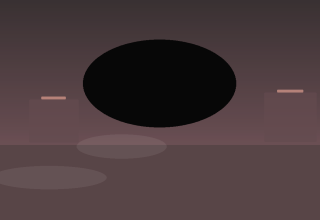
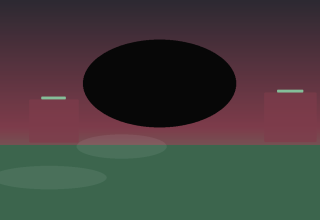
save "Add FX rules and update art candidates based on validation feedback

diff --git a/game/art/assembly_pipeline.py b/game/art/assembly_pipeline.py
@@ -1,0 +1,142 @@
+from __future__ import annotations
+
+from dataclasses import dataclass
+from pathlib import Path
+import random
+
+import pygame
+
+from game.art.environment_library import resolve_environment_preset
+from game.art.fx_layer import draw_fx
+from game.art.palette_system import resolve_civilization_palette
+from game.art.reference_sampler import ReferenceSampler, ReferenceChoice
+from game.art.scene_engine import (
+    semantic_from_prompt,
+    _resolve_explicit_refs,
+    _categories_for_prompt,
+    _keywords_from_semantic,
+    _prioritize_refs,
+    _palette_from_refs,
+    _strong_foreground_palette,
+    _draw_background,
+    _apply_contrast,
+)
+from game.art.silhouette_builder import draw_focus_object, draw_subject
+
+
+@dataclass(slots=True)
+class AssemblyMetrics:
+    occ_subject: float
+    occ_object: float
+    occ_fx: float
+    readability_ok: bool
+
+
+@dataclass(slots=True)
+class AssemblyResult:
+    card_id: str
+    path: str
+    scene_type: str
+    environment_preset: str
+    palette_id: str
+    references_used: list[str]
+    metrics: AssemblyMetrics
+
+
+def _occ_ratio(layer: pygame.Surface) -> float:
+    mask = pygame.mask.from_surface(layer)
+    return round(mask.count() / max(1, layer.get_width() * layer.get_height()), 4)
+
+
+def _draw_symbol(layer: pygame.Surface, semantic: dict, palette, rng: random.Random):
+    symbol = str(semantic.get('symbol', '') or '').lower()
+    if not symbol:
+        return
+    w, h = layer.get_size()
+    cx = w // 2
+    cy = int(h * 0.34)
+    accent = palette[3]
+    soft = (*accent, 88)
+    if 'chakana' in symbol:
+        size = int(min(w, h) * 0.10)
+        pygame.draw.line(layer, soft, (cx - size, cy), (cx + size, cy), 2)
+        pygame.draw.line(layer, soft, (cx, cy - size), (cx, cy + size), 2)
+        pygame.draw.rect(layer, soft, (cx - size // 2, cy - size // 2, size, size), 1)
+    elif 'seal' in symbol or 'sigil' in symbol:
+        r = int(min(w, h) * 0.08)
+        pygame.draw.circle(layer, soft, (cx, cy), r, 2)
+        pygame.draw.line(layer, soft, (cx - r, cy), (cx + r, cy), 2)
+    elif 'solar' in symbol:
+        r = int(min(w, h) * 0.07)
+        pygame.draw.circle(layer, soft, (cx, cy), r, 2)
+        for dx, dy in ((0, -r-8), (r+8, 0), (0, r+8), (-r-8, 0)):
+            pygame.draw.line(layer, soft, (cx, cy), (cx + dx, cy + dy), 2)
+
+
+def validate_readability(subject_layer: pygame.Surface, object_layer: pygame.Surface, fx_layer: pygame.Surface) -> AssemblyMetrics:
+    occ_subject = _occ_ratio(subject_layer)
+    occ_object = _occ_ratio(object_layer)
+    occ_fx = _occ_ratio(fx_layer)
+    readability_ok = occ_subject >= 0.20 and occ_object >= 0.035 and occ_fx <= 0.15
+    return AssemblyMetrics(occ_subject=occ_subject, occ_object=occ_object, occ_fx=occ_fx, readability_ok=readability_ok)
+
+
+def assemble_scene_art(card_id: str, prompt: str, seed: int, out_path: Path) -> AssemblyResult:
+    rng = random.Random(seed)
+    semantic = semantic_from_prompt(prompt)
+    sampler = ReferenceSampler()
+    explicit_refs = _resolve_explicit_refs(sampler, semantic)
+    sampled_refs = sampler.pick(_categories_for_prompt(prompt), _keywords_from_semantic(semantic), seed)
+    refs: list[ReferenceChoice] = []
+    seen: set[str] = set()
+    source_refs = explicit_refs if explicit_refs else _prioritize_refs(sampled_refs, semantic)
+    max_refs = 3 if explicit_refs else 6
+    for ref in source_refs:
+        key = str(ref.path).lower()
+        if key in seen:
+            continue
+        seen.add(key)
+        refs.append(ref)
+        if len(refs) >= max_refs:
+            break
+    if not explicit_refs:
+        refs = _prioritize_refs(refs, semantic)
+
+    civ = resolve_civilization_palette(semantic)
+    palette = _palette_from_refs(refs, semantic)
+    fg_palette = _strong_foreground_palette(palette, semantic.get('subject_kind', ''), semantic.get('object_kind', ''))
+    env_preset = resolve_environment_preset(semantic.get('scene_type', ''), semantic.get('environment_kind', ''), semantic.get('environment', ''))
+
+    work = pygame.Surface((768, 768), pygame.SRCALPHA, 32)
+    _draw_background(work, semantic, palette, rng)
+
+    subject_layer = pygame.Surface(work.get_size(), pygame.SRCALPHA)
+    object_layer = pygame.Surface(work.get_size(), pygame.SRCALPHA)
+    symbol_layer = pygame.Surface(work.get_size(), pygame.SRCALPHA)
+    fx_layer = pygame.Surface(work.get_size(), pygame.SRCALPHA)
+    shadow_layer = pygame.Surface(work.get_size(), pygame.SRCALPHA)
+
+    pygame.draw.ellipse(shadow_layer, (0, 0, 0, 132), (int(work.get_width() * 0.12), int(work.get_height() * 0.63), int(work.get_width() * 0.76), int(work.get_height() * 0.18)))
+    draw_subject(subject_layer, semantic, refs, fg_palette, rng)
+    draw_focus_object(object_layer, semantic, fg_palette, rng)
+    _draw_symbol(symbol_layer, semantic, fg_palette, rng)
+    draw_fx(fx_layer, semantic, palette, rng)
+
+    for layer in (shadow_layer, subject_layer, object_layer, symbol_layer, fx_layer):
+        work.blit(layer, (0, 0))
+
+    _apply_contrast(work)
+    final = pygame.transform.smoothscale(work, (320, 220)).convert_alpha()
+    out_path.parent.mkdir(parents=True, exist_ok=True)
+    pygame.image.save(final, str(out_path))
+
+    metrics = validate_readability(subject_layer, object_layer, fx_layer)
+    return AssemblyResult(
+        card_id=card_id,
+        path=str(out_path),
+        scene_type=str(semantic.get('scene_type', '') or ''),
+        environment_preset=env_preset.preset_id,
+        palette_id=civ.palette_id,
+        references_used=[r.path.name for r in refs[:4]],
+        metrics=metrics,
+    )

diff --git a/game/art/scene_engine.py b/game/art/scene_engine.py
@@ -7,6 +7,7 @@ import pygame
 
 from game.art.environment_library import resolve_environment_preset
 from game.art.fx_layer import draw_fx
+from game.art.palette_system import resolve_civilization_palette
 from game.art.reference_sampler import ReferenceSampler, ReferenceChoice
 from game.art.silhouette_builder import draw_focus_object, draw_subject
 
@@ -83,17 +84,31 @@ def _resolve_explicit_refs(sampler: ReferenceSampler, semantic: dict) -> list[Re
                     break
     return wanted
 
-def _palette_from_refs(choices):
-    if not choices:
-        return ((20, 16, 28), (72, 68, 96), (148, 138, 166), (232, 204, 132))
-    cols = [c.avg_color for c in choices]
-    r = sum(c[0] for c in cols) // len(cols)
-    g = sum(c[1] for c in cols) // len(cols)
-    b = sum(c[2] for c in cols) // len(cols)
-    top = (max(8, r // 5), max(8, g // 5), max(8, b // 5))
-    mid = (max(18, int(r * 0.55)), max(18, int(g * 0.55)), max(18, int(b * 0.55)))
-    low = (min(255, int(r * 0.92)), min(255, int(g * 0.92)), min(255, int(b * 0.92)))
-    accent = (min(255, r + 70), min(255, g + 50), min(255, b + 26))
+def _blend_color(a, b, weight: float):
+    return (
+        int(a[0] * (1.0 - weight) + b[0] * weight),
+        int(a[1] * (1.0 - weight) + b[1] * weight),
+        int(a[2] * (1.0 - weight) + b[2] * weight),
+    )
+
+
+def _palette_from_refs(choices, semantic):
+    civ = resolve_civilization_palette(semantic)
+    top = civ.shadow
+    mid = civ.primary
+    low = civ.secondary
+    accent = civ.glow
+    if choices:
+        cols = [c.avg_color for c in choices]
+        r = sum(c[0] for c in cols) // len(cols)
+        g = sum(c[1] for c in cols) // len(cols)
+        b = sum(c[2] for c in cols) // len(cols)
+        ref_mid = (max(18, int(r * 0.55)), max(18, int(g * 0.55)), max(18, int(b * 0.55)))
+        ref_low = (min(255, int(r * 0.92)), min(255, int(g * 0.92)), min(255, int(b * 0.92)))
+        ref_acc = (min(255, r + 60), min(255, g + 60), min(255, b + 50))
+        mid = _blend_color(mid, ref_mid, 0.28)
+        low = _blend_color(low, ref_low, 0.22)
+        accent = _blend_color(accent, ref_acc, 0.18)
     return (top, mid, low, accent)
 
 
@@ -316,52 +331,22 @@ def _prioritize_refs(refs, semantic: dict):
 
 
 def generate_scene_art(card_id: str, prompt: str, seed: int, out_path: Path) -> dict:
-    rng = random.Random(seed)
+    from game.art.assembly_pipeline import assemble_scene_art
     semantic = semantic_from_prompt(prompt)
-    sampler = ReferenceSampler()
-    explicit_refs = _resolve_explicit_refs(sampler, semantic)
-    sampled_refs = sampler.pick(_categories_for_prompt(prompt), _keywords_from_semantic(semantic), seed)
-    refs = []
-    seen = set()
-    source_refs = explicit_refs if explicit_refs else _prioritize_refs(sampled_refs, semantic)
-    max_refs = 3 if explicit_refs else 6
-    for ref in source_refs + ([] if explicit_refs else []):
-        key = str(ref.path).lower()
-        if key in seen:
-            continue
-        seen.add(key)
-        refs.append(ref)
-        if len(refs) >= max_refs:
-            break
-    if not explicit_refs:
-        refs = _prioritize_refs(refs, semantic)
-    palette = _palette_from_refs(refs)
-    work = pygame.Surface((768, 768), pygame.SRCALPHA, 32)
-    _draw_background(work, semantic, palette, rng)
-    shadow = pygame.Surface(work.get_size(), pygame.SRCALPHA)
-    pygame.draw.ellipse(shadow, (0, 0, 0, 132), (int(work.get_width() * 0.10), int(work.get_height() * 0.62), int(work.get_width() * 0.80), int(work.get_height() * 0.20)))
-    work.blit(shadow, (0, 0))
-    fg_palette = _strong_foreground_palette(palette, semantic.get('subject_kind', ''), semantic.get('object_kind', ''))
-    draw_subject(work, semantic, refs, fg_palette, rng)
-    draw_focus_object(work, semantic, fg_palette, rng)
-    draw_fx(work, semantic, palette, rng)
-    _apply_contrast(work)
-    final = pygame.transform.smoothscale(work, (320, 220)).convert_alpha()
-    sharpen = pygame.Surface((320, 220), pygame.SRCALPHA)
-    for _ in range(18):
-        x = rng.randint(0, 319)
-        y = rng.randint(0, 219)
-        pygame.draw.circle(sharpen, (255, 255, 255, 4), (x, y), 1)
-    final.blit(sharpen, (0, 0), special_flags=pygame.BLEND_RGBA_ADD)
-    out_path.parent.mkdir(parents=True, exist_ok=True)
-    pygame.image.save(final, str(out_path))
+    result = assemble_scene_art(card_id, prompt, seed, out_path)
     return {
         'card_id': card_id,
-        'path': str(out_path),
-        'generator_used': 'scene_engine_v2',
-        'references_used': [r.path.name for r in refs[:4]],
-        'palette_seeded': [r.avg_color for r in refs[:3]],
+        'path': result.path,
+        'generator_used': 'assembly_pipeline_v1',
+        'references_used': list(result.references_used),
+        'palette_seeded': [result.palette_id],
         'semantic_subject': str(semantic.get('subject', '') or ''),
         'semantic_object': str(semantic.get('object', '') or ''),
         'semantic_environment': str(semantic.get('environment', '') or ''),
+        'scene_type': result.scene_type,
+        'environment_preset': result.environment_preset,
+        'readability_ok': result.metrics.readability_ok,
+        'occ_subject': result.metrics.occ_subject,
+        'occ_object': result.metrics.occ_object,
+        'occ_fx': result.metrics.occ_fx,
     }

diff --git a/game/art/palette_system.py b/game/art/palette_system.py
@@ -1,0 +1,69 @@
+from __future__ import annotations
+
+from dataclasses import asdict, dataclass
+
+
+@dataclass(slots=True)
+class CivilizationPalette:
+    palette_id: str
+    primary: tuple[int, int, int]
+    secondary: tuple[int, int, int]
+    accent: tuple[int, int, int]
+    shadow: tuple[int, int, int]
+    glow: tuple[int, int, int]
+
+    def to_dict(self) -> dict[str, object]:
+        return asdict(self)
+
+
+CIVILIZATION_PALETTES: dict[str, CivilizationPalette] = {
+    "chakana": CivilizationPalette(
+        palette_id="chakana",
+        primary=(112, 78, 156),
+        secondary=(54, 116, 124),
+        accent=(226, 196, 110),
+        shadow=(24, 18, 34),
+        glow=(244, 224, 152),
+    ),
+    "hyperborea": CivilizationPalette(
+        palette_id="hyperborea",
+        primary=(188, 218, 246),
+        secondary=(114, 146, 188),
+        accent=(244, 244, 252),
+        shadow=(26, 34, 56),
+        glow=(224, 244, 255),
+    ),
+    "archon": CivilizationPalette(
+        palette_id="archon",
+        primary=(118, 24, 46),
+        secondary=(42, 178, 104),
+        accent=(210, 78, 102),
+        shadow=(12, 8, 18),
+        glow=(110, 255, 178),
+    ),
+}
+
+
+def _detect_civilization(semantic: dict) -> str:
+    scene = str(semantic.get("scene_type", "") or "").lower()
+    subject_kind = str(semantic.get("subject_kind", "") or "").lower()
+    environment_kind = str(semantic.get("environment_kind", "") or "").lower()
+    palette = str(semantic.get("palette", "") or "").lower()
+    environment = str(semantic.get("environment", "") or "").lower()
+
+    if any(k in scene for k in ("archon", "void")) or any(k in subject_kind for k in ("archon",)) or any(k in environment_kind for k in ("throne",)) or any(k in palette for k in ("crimson", "toxic green", "black")) or "void" in environment:
+        return "archon"
+    if any(k in scene for k in ("hyperborea",)) or any(k in subject_kind for k in ("hyperborean",)) or any(k in environment_kind for k in ("citadel",)) or any(k in palette for k in ("ice blue", "silver", "white")) or any(k in environment for k in ("polar", "glacial", "citadel")):
+        return "hyperborea"
+    return "chakana"
+
+
+def resolve_civilization_palette(semantic: dict) -> CivilizationPalette:
+    return CIVILIZATION_PALETTES[_detect_civilization(semantic)]
+
+
+def palette_system_summary() -> dict[str, object]:
+    return {
+        "preset_count": len(CIVILIZATION_PALETTES),
+        "palettes": {key: value.to_dict() for key, value in CIVILIZATION_PALETTES.items()},
+    }

diff --git a/tools/assets/test_layered_scene_pipeline.py b/tools/assets/test_layered_scene_pipeline.py
@@ -42,7 +42,9 @@ def main() -> int:
         frame_path = out_dir / f'{cid}_frame.png'
         result = generate_scene_art(cid, entry['prompt_text'], sum(ord(ch) for ch in cid), art_path)
         pygame.image.save(generate_frame_asset(), str(frame_path))
-        lines.append(f"{cid}|art={art_path.name}|frame={frame_path.name}|refs={','.join(result.get('references_used', []))}")
+        lines.append(
+            f"{cid}|art={art_path.name}|frame={frame_path.name}|scene={result.get('scene_type','')}|env={result.get('environment_preset','')}|palette={','.join(map(str, result.get('palette_seeded', [])))}|refs={','.join(result.get('references_used', []))}|occ_subject={result.get('occ_subject','')}|occ_object={result.get('occ_object','')}|occ_fx={result.get('occ_fx','')}|readability_ok={result.get('readability_ok','')}"
+        )
     report = project_root() / 'reports' / 'validation' / 'scene_pipeline_test_report.txt'
     report.write_text('\n'.join(lines) + '\n', encoding='utf-8')
     print(f'[scene_pipeline] report={report}')

diff --git a/tools/assets/preview_scene_layers.py b/tools/assets/preview_scene_layers.py
@@ -63,7 +63,7 @@ def _compose_preview(prompt: str, seed: int) -> tuple[dict, dict[str, pygame.Sur
         if len(refs) >= max_refs:
             break
 
-    palette = _palette_from_refs(refs)
+    palette = _palette_from_refs(refs, semantic)
     work = pygame.Surface((768, 768), pygame.SRCALPHA, 32)
     background = pygame.Surface(work.get_size(), pygame.SRCALPHA, 32)
     _draw_background(background, semantic, palette, __import__('random').Random(seed))
